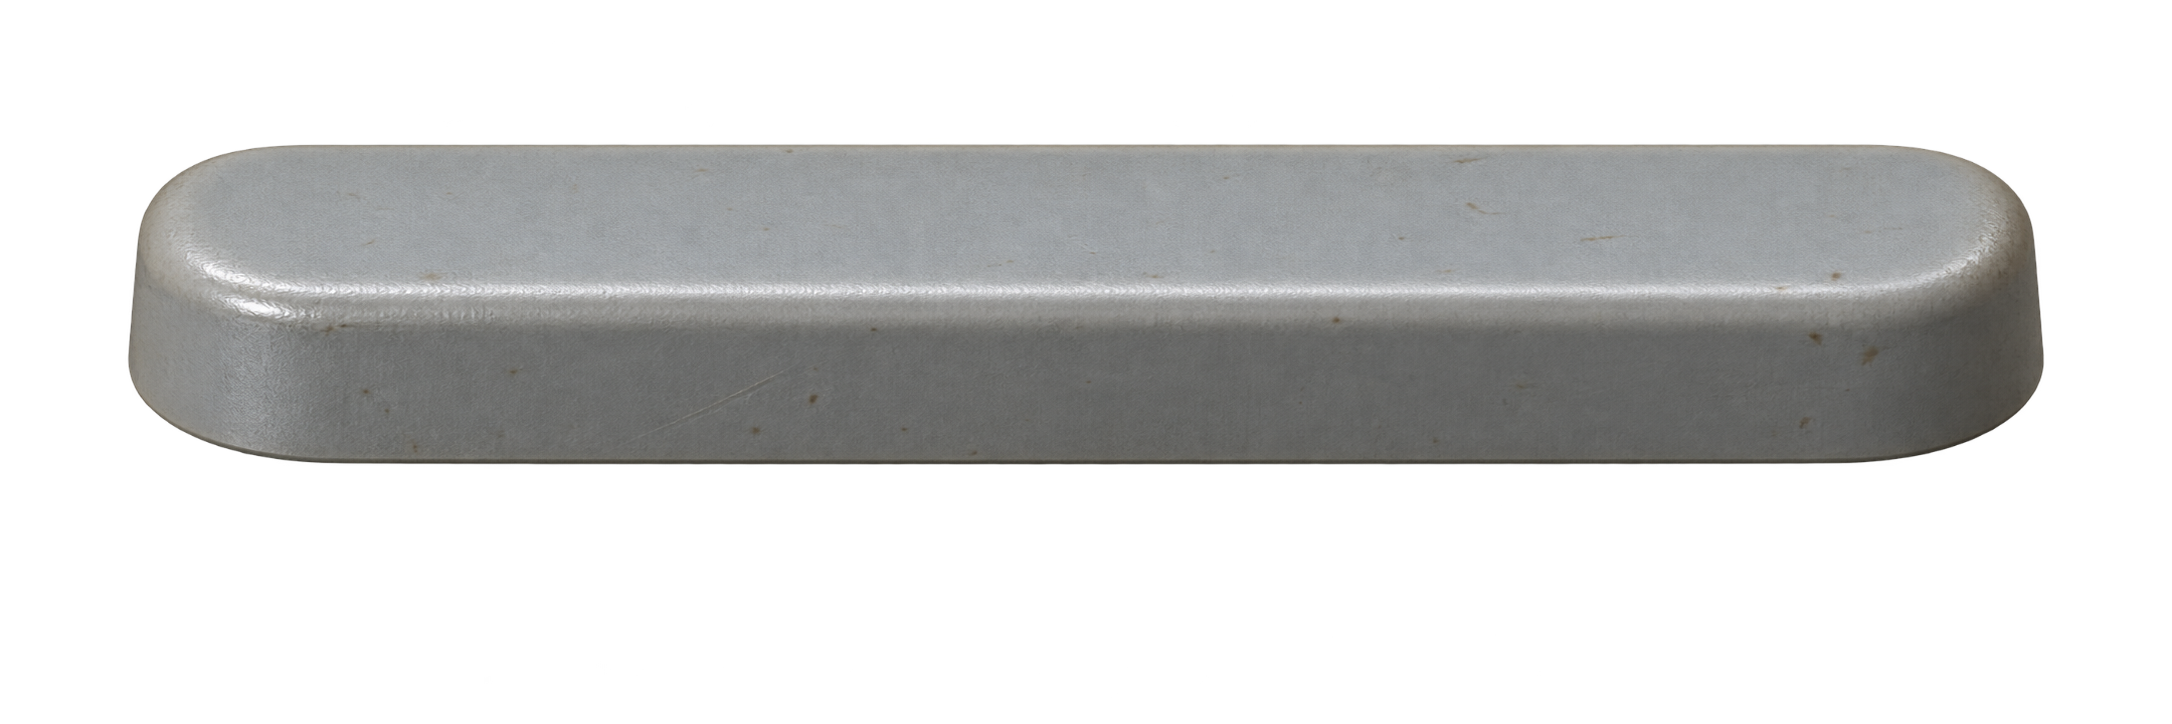
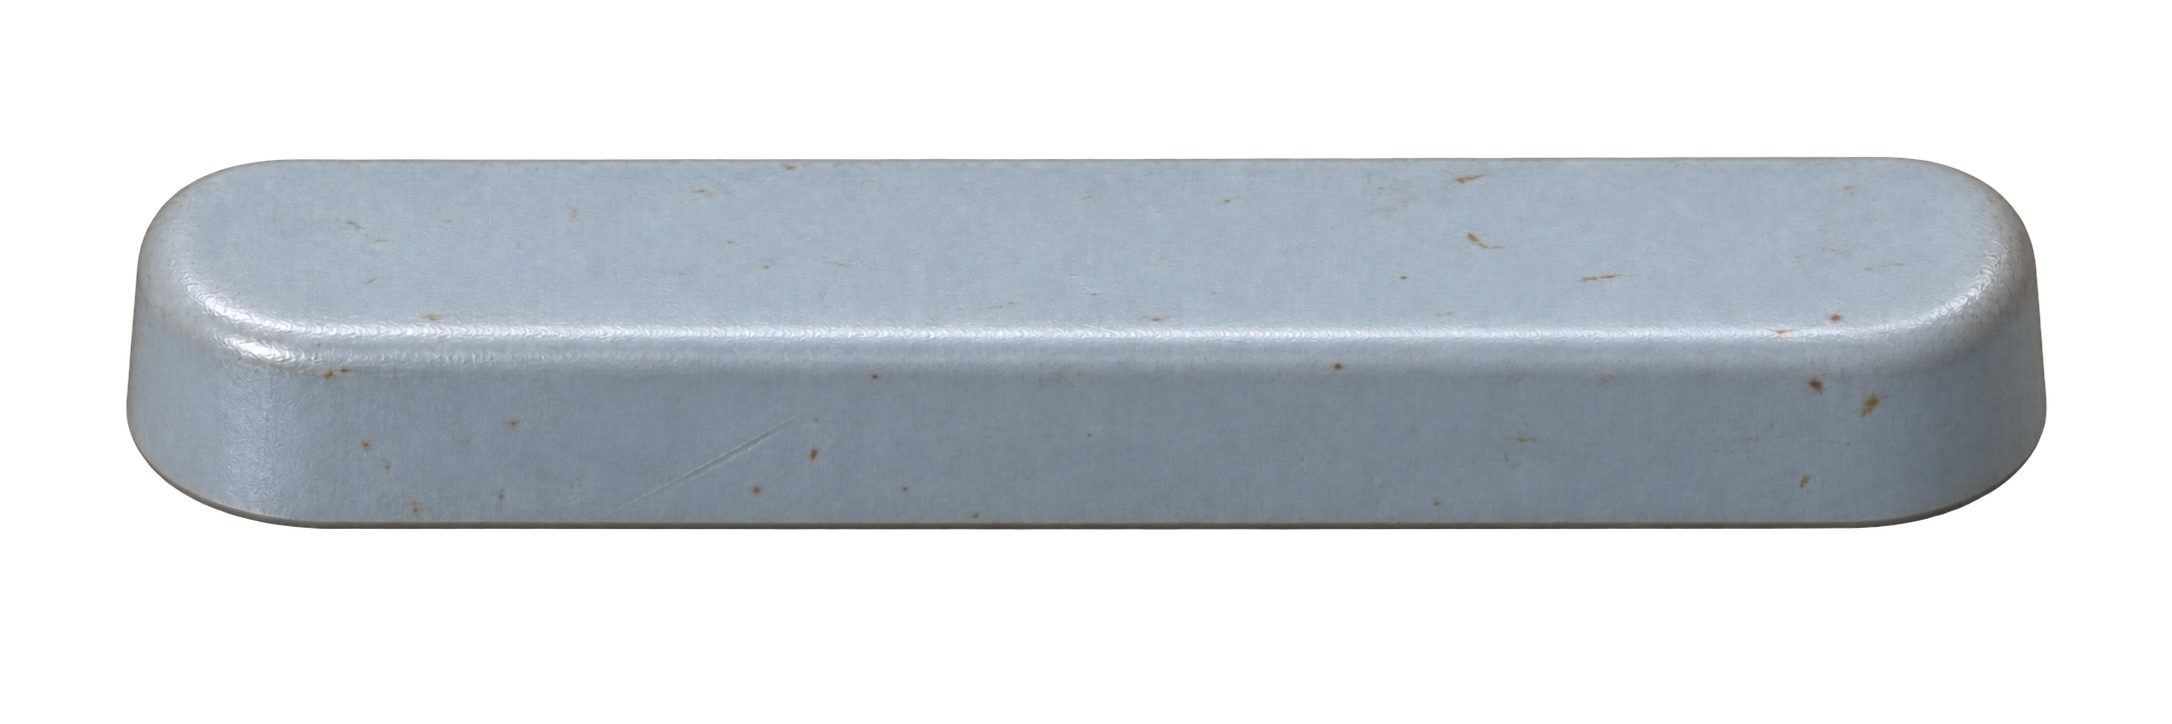
Update ASR-33 spacebar assets and alignment

diff --git a/src/teletype.rs b/src/teletype.rs
@@ -150,7 +150,7 @@ pub const KEYS: &[Key] = &[
 
     // Spacebar visual/hit target calibrated to the photographed long socket.
     // The previous position sat a few pixels high and slightly left at runtime.
-    Key::new(KeyKind::Space, 1244.0, 2640.0, 671.0, 120.0),
+    Key::new(KeyKind::Space, 1220.0, 2652.0, 671.0, 120.0),
 ];
 
 pub fn hit_test(x: f32, y: f32) -> Option<&'static Key> {
